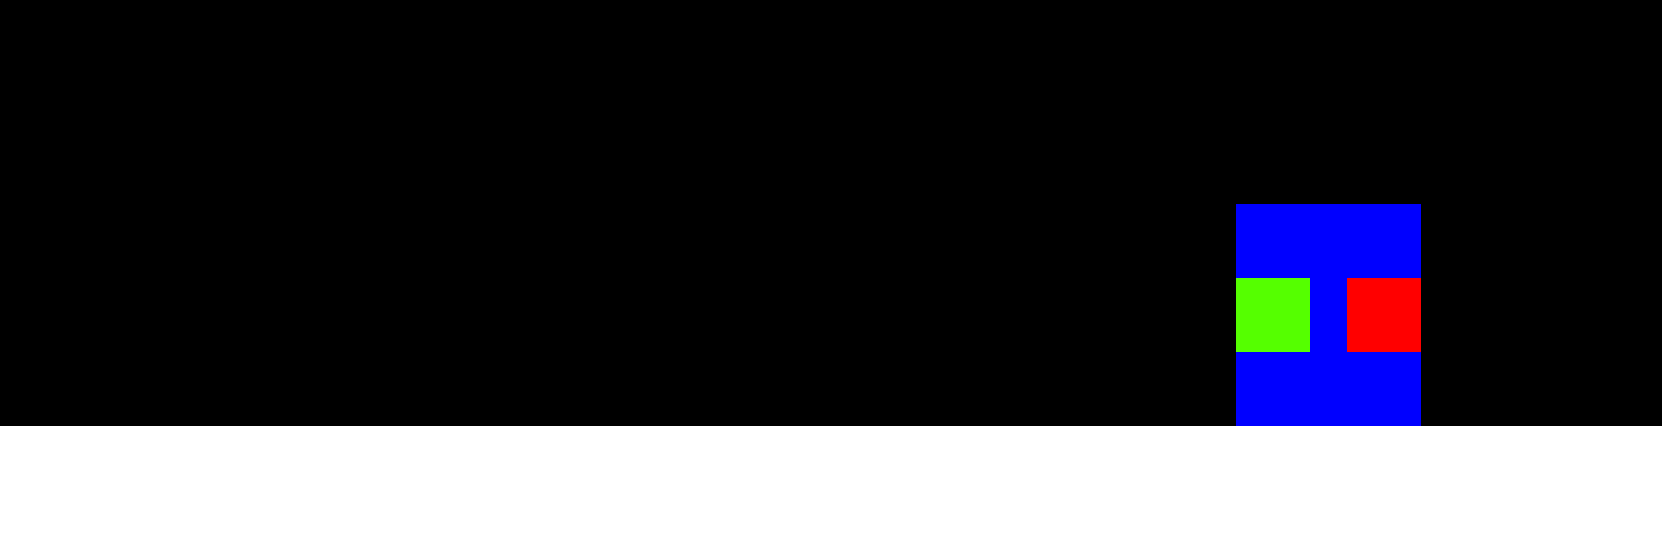
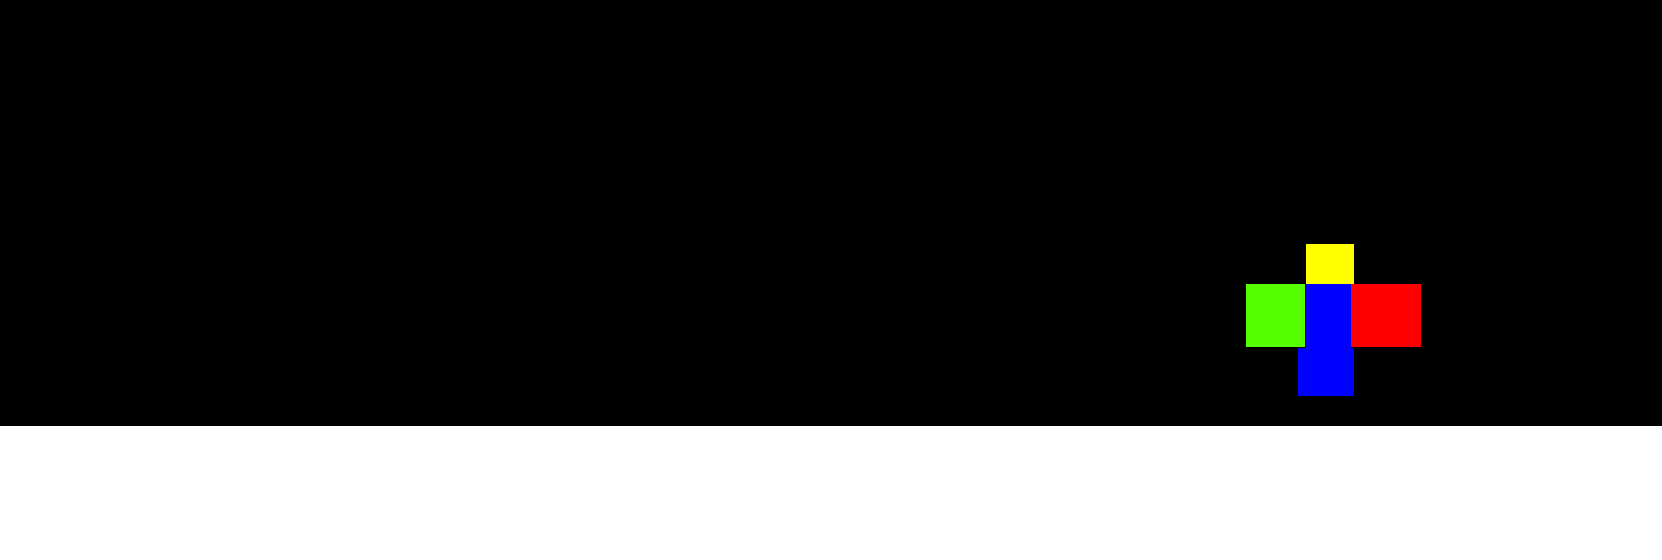
Добавил 2 сцены

Changed region(s): [[0.7365, 0.3643, 0.8592, 0.7589]]

diff --git a/src/input.js b/src/input.js
@@ -6,12 +6,14 @@ import { projectTargetToWalkable, isColorZone } from "./navmask.js";
 import { showPopup, showQuestionPopup } from "./dialog.js";
 import { startNpcDialog } from "./npcDialog.js"; // <-- додаємо імпорт
 import { changeScene, getCurrentScene } from "./sceneManager.js";
+import { snapCameraToHero } from "./camera.js";
 
 const RED_ZONE = { r: 255, g: 0, b: 0 };
-const BLUE_ZONE = { r: 0, g: 0, b: 255 }; // синя зона — магазин
-const GREEN_ZONE = { r: 85, g: 255, b: 0 }; // зелена зона — NPC
-const GREEN_ZONE2 = { r: 0, g: 255, b: 85 }; // зелена зона — NPC
-const YELLOW_ZONE = { r: 255, g: 255, b: 0 }; // жовта зона — NPC
+const BLUE_ZONE = { r: 0, g: 0, b: 255 };
+const GREEN_ZONE = { r: 85, g: 255, b: 0 };
+const GREEN_ZONE2 = { r: 0, g: 255, b: 85 };
+const YELLOW_ZONE = { r: 255, g: 255, b: 0 };
+const ORANGE_ZONE = { r: 255, g: 170, b: 0 };
 
 export function bindPointer(hero) {
   canvas.addEventListener("pointerdown", (e) => {
@@ -23,24 +25,23 @@ export function bindPointer(hero) {
     const padY = hero.h * hero.anchorY;
     wy = clamp(wy, padY, worldH - (hero.h - padY));
 
-    // --- 1. Клік по синій зоні (магазин)
-    // --- 1. Клік по синій зоні
     if (isColorZone(wx, wy, BLUE_ZONE.r, BLUE_ZONE.g, BLUE_ZONE.b)) {
       const current = getCurrentScene();
 
       if (current === 1) {
         console.log("🟦 Сцена 1: магазин (вода)");
-        showPopup(); // стара логіка
+        showPopup();
       } else if (current === 2) {
         console.log('🟦 Сцена 2: питання "де пара?"');
-        showQuestionPopup(); // НОВА модалка
+        showQuestionPopup();
+      } else if (current === 7) {
+        changeScene(8);
+        return;
       }
 
       return;
     }
 
-    // --- 2. Клік по зеленій зоні
-    // --- 2. Клік по зеленій зоні
     if (isColorZone(wx, wy, GREEN_ZONE.r, GREEN_ZONE.g, GREEN_ZONE.b)) {
       const current = getCurrentScene();
 
@@ -70,6 +71,12 @@ export function bindPointer(hero) {
       if (current === 1) {
         console.log("🟥 Сцена 1: перехід на сцену 2");
         changeScene(2);
+        hero.x = 200;
+        hero.y = 520;
+        hero.targetX = hero.x;
+        hero.targetY = hero.y;
+        snapCameraToHero(hero);
+        return;
       } else if (current === 2) {
         console.log("🟥 Сцена 2: перехід на сцену 4");
         changeScene(4);
@@ -79,7 +86,27 @@ export function bindPointer(hero) {
     }
 
     if (isColorZone(wx, wy, YELLOW_ZONE.r, YELLOW_ZONE.g, YELLOW_ZONE.b)) {
+      const current = getCurrentScene();
+      if (current === 2) {
+        changeScene(7);
+        return;
+      }
+
       changeScene(5);
+      return;
+    }
+
+    if (isColorZone(wx, wy, ORANGE_ZONE.r, ORANGE_ZONE.g, ORANGE_ZONE.b)) {
+      const current = getCurrentScene();
+
+      if (current === 7) {
+        changeScene(2);
+        hero.x = 1250;
+        hero.y = 470;
+        hero.targetX = hero.x;
+        hero.targetY = hero.y;
+        return;
+      }
     }
 
     // --- 3. Звичайне пересування

diff --git a/src/sceneManager.js b/src/sceneManager.js
@@ -7,7 +7,6 @@ import { setHeroSpeed, setHeroScale, applyHeroSizeFromScreen } from "./hero.js";
 import { HERO_SPEED } from "./config.js";
 import { startLessonScene } from "./lessonStory.js";
 
-
 let currentScene = 1;
 
 function applySceneAssets(targetScene) {
@@ -35,8 +34,6 @@ function applySceneAssets(targetScene) {
 
       setHeroSpeed(hero, 220);
 
-      hero.x = 200;
-      hero.y = 520;
       break;
 
     case 3:
@@ -66,7 +63,7 @@ function applySceneAssets(targetScene) {
       hero.x = 100;
       hero.y = 420;
       break;
-    
+
     case 5:
       console.log("→ Сцена 5");
       images.scene = images.scene5;
@@ -82,17 +79,40 @@ function applySceneAssets(targetScene) {
 
     case 6:
       images.scene = images.scene6;
-      images.nav   = images.nav6;
+      images.nav = images.nav6;
 
       setWorldSize(images.scene.naturalWidth, images.scene.naturalHeight);
 
       // Координаты героя при входе на сцену 6
-      hero.x = 500;   // або інші, ти вибереш
+      hero.x = 500; // або інші, ти вибереш
       hero.y = 450;
       setTimeout(() => startLessonScene(), 500);
 
       break;
+    
+    case 7:
+      images.scene = images.scene7;
+      images.nav = images.nav7;
 
+      setWorldSize(images.scene.naturalWidth, images.scene.naturalHeight);
+
+      // Координаты героя при входе на сцену 6
+      hero.x = 2000; // або інші, ти вибереш
+      hero.y = 450;
+
+      break;
+    
+    case 8:
+      images.scene = images.scene8;
+      images.nav = images.nav8;
+
+      setWorldSize(images.scene.naturalWidth, images.scene.naturalHeight);
+
+      // Координаты героя при входе на сцену 6
+      hero.x = 100; // або інші, ти вибереш
+      hero.y = 450;
+
+      break;
 
     default:
       console.warn("Unknown scene:", targetScene);

diff --git a/src/assets.js b/src/assets.js
@@ -31,6 +31,10 @@ export const images = {
   npc3: loadImage("../npc3.png"),
   scene6: loadImage("../scene6.png"),
   nav6:   loadImage("../navmask6.png"),
+  nav7:   loadImage("../navmask7.png"),
+  scene7: loadImage("../scene7.png"),
+  scene8: loadImage("../scene8.png"),
+  nav8:   loadImage("../navmask8.png"),
 
 
 
@@ -58,6 +62,10 @@ export async function loadAllAssets() {
     waitDecode(images.npc3),
     waitDecode(images.scene6),
     waitDecode(images.nav6),
+    waitDecode(images.nav7),
+    waitDecode(images.scene7),
+    waitDecode(images.scene8),
+    waitDecode(images.nav8),
 
 
     ...carSprites.map((s) => waitDecode(s.img ? s.img : s)),
